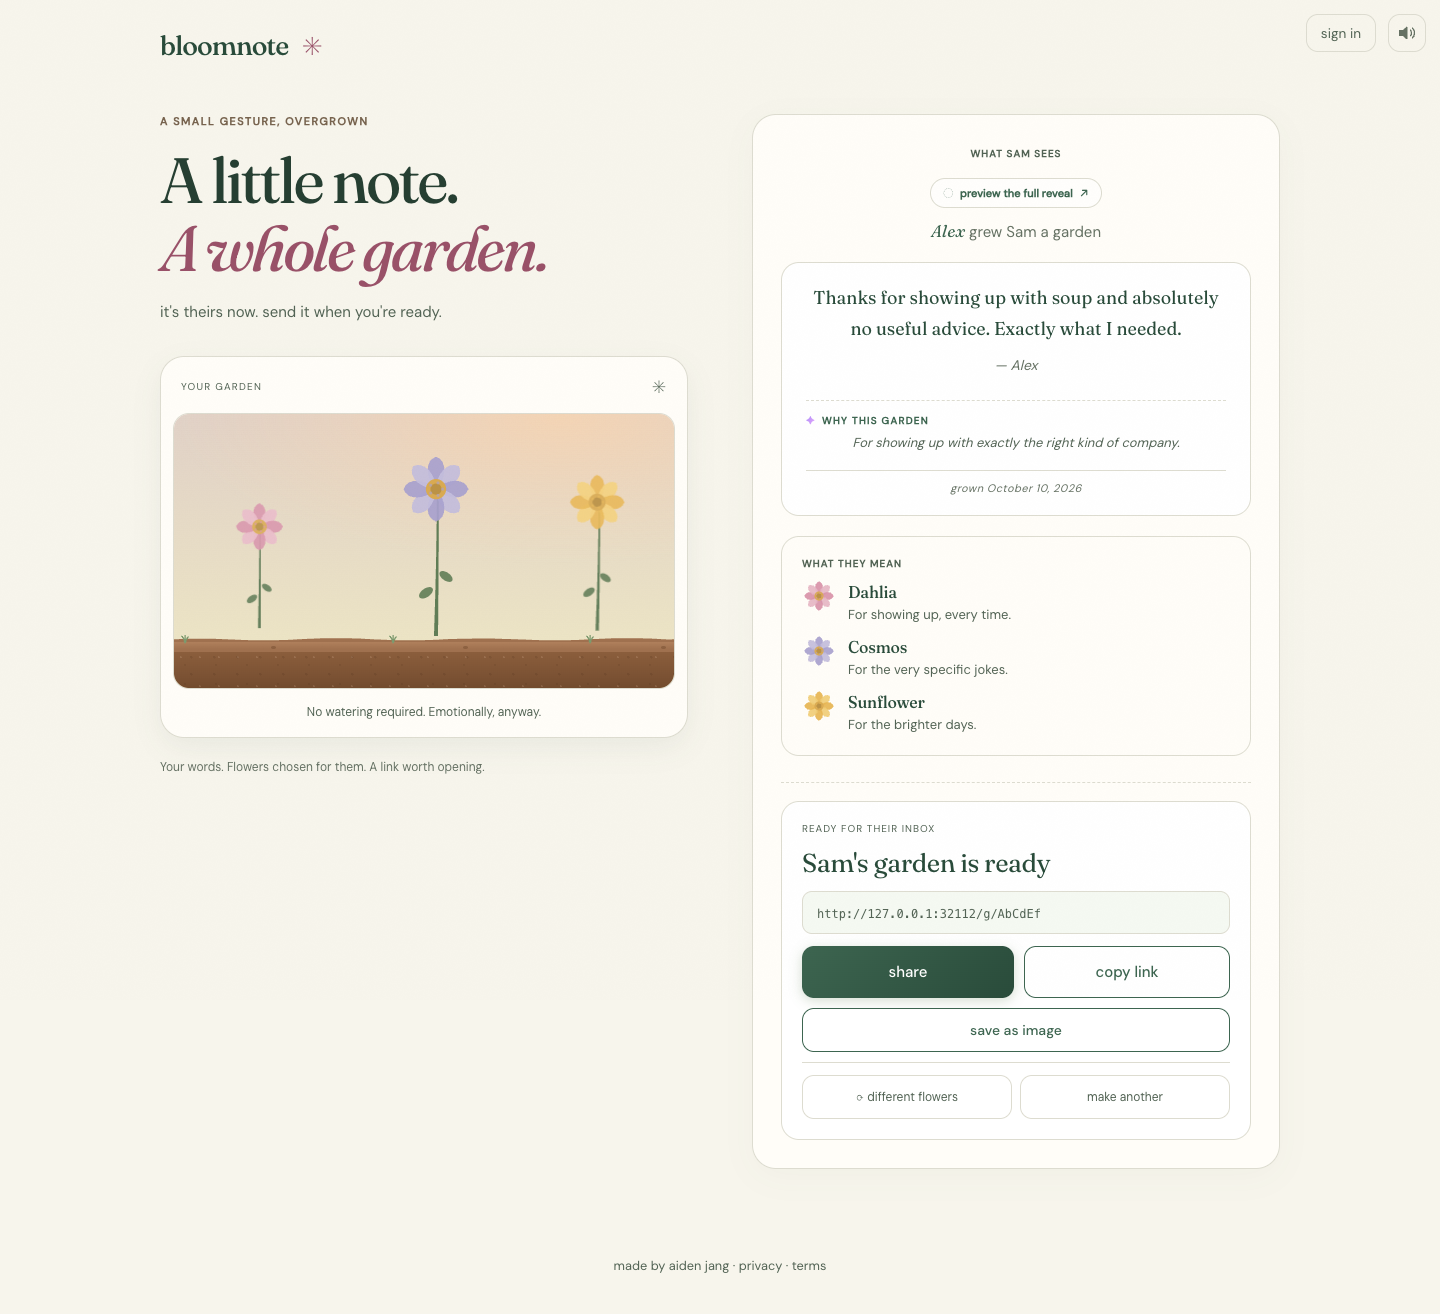
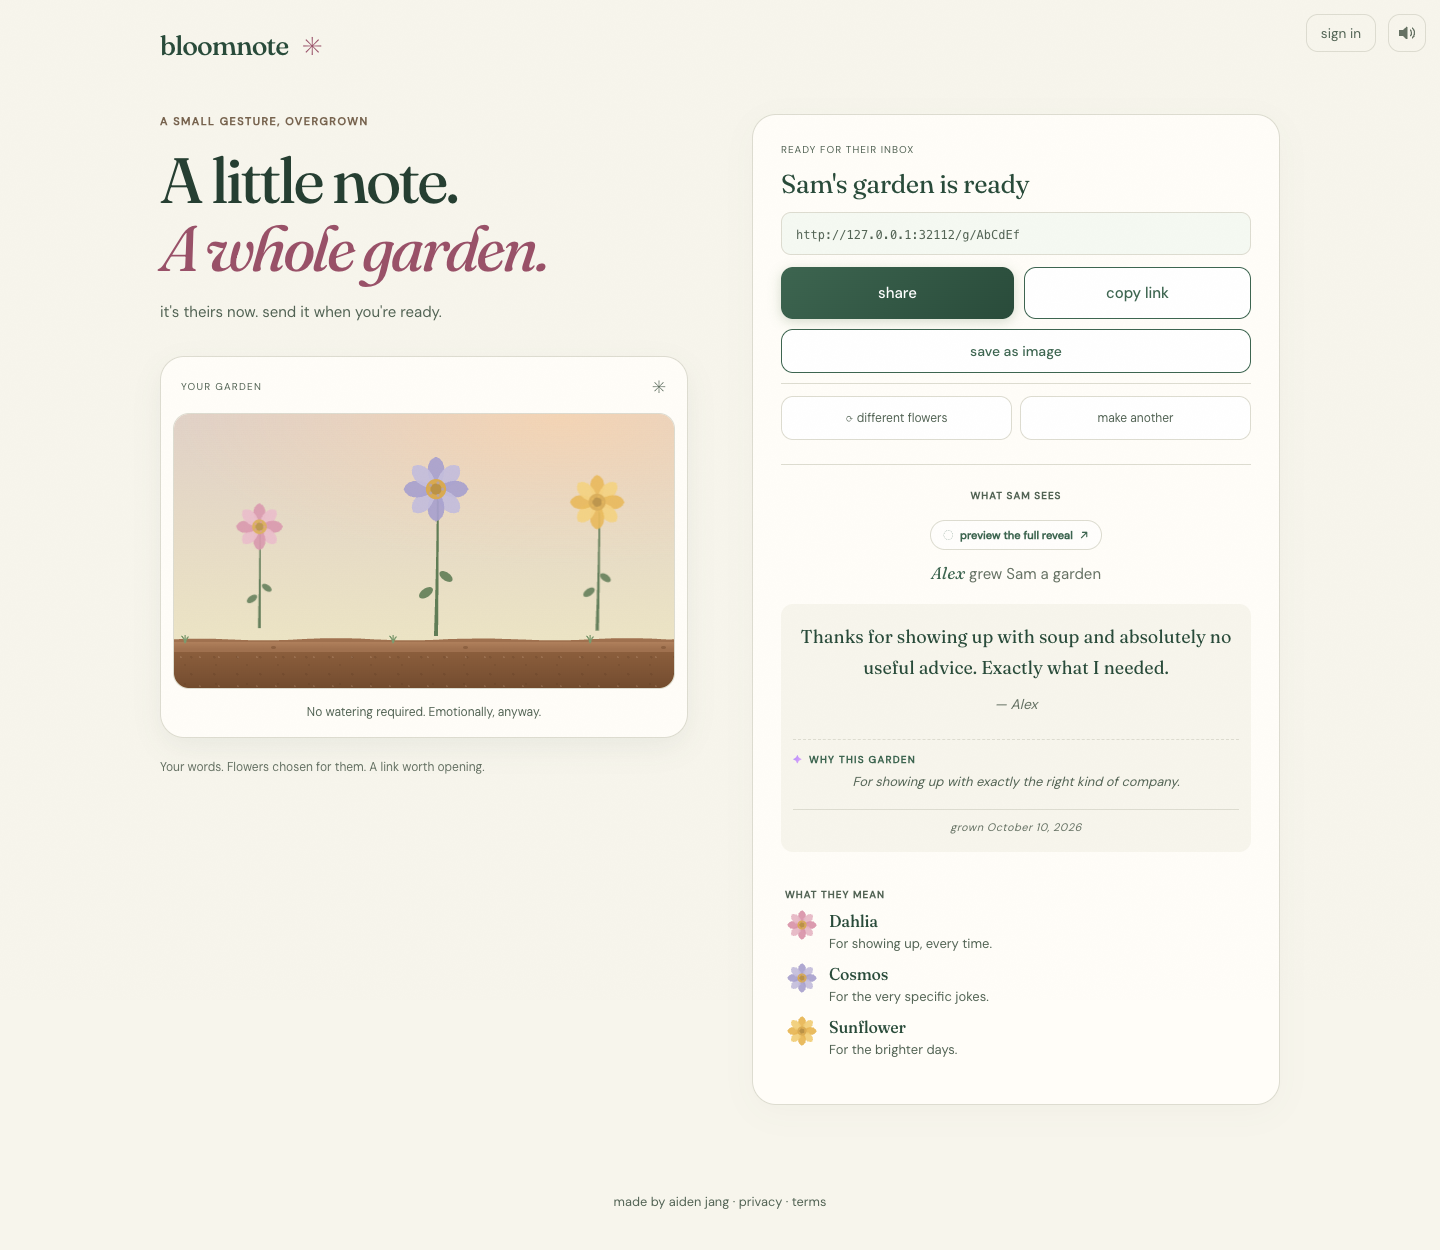
feat: bring Bloomnote sharing forward and flatten preview surfaces

diff --git a/packages/web/src/components/Composer.tsx b/packages/web/src/components/Composer.tsx
@@ -341,6 +341,26 @@ export default function Composer({ remixSeed }: ComposerProps = {}) {
 
       {phase === 'designed' && garden && shareUrl && (
         <>
+          <ShareCard
+            shareUrl={shareUrl}
+            gardenId={gardenId}
+            recipient={recipient}
+            copied={copied}
+            shareStatus={shareStatus}
+            imageStatus={imageStatus}
+            canShare={canShare}
+            isRerolling={isRerolling}
+            errorText={errorText}
+            statusText={statusText}
+            scheduleOpen={scheduleOpen}
+            unlockLocal={unlockLocal}
+            onShare={handleShare}
+            onCopy={handleCopy}
+            onSaveImage={handleSaveImage}
+            onReroll={() => void design.reroll(draft.fields)}
+            onStartOver={handleStartOver}
+          />
+
           <p className={styles.previewLabel}>
             {recipient.trim() ? `what ${recipient.trim()} sees` : 'what they see'}
           </p>
@@ -388,28 +408,6 @@ export default function Composer({ remixSeed }: ComposerProps = {}) {
           )}
 
           <FlowerLegend flowers={garden.flowers} />
-
-          <hr className={styles.shareDivider} aria-hidden />
-
-          <ShareCard
-            shareUrl={shareUrl}
-            gardenId={gardenId}
-            recipient={recipient}
-            copied={copied}
-            shareStatus={shareStatus}
-            imageStatus={imageStatus}
-            canShare={canShare}
-            isRerolling={isRerolling}
-            errorText={errorText}
-            statusText={statusText}
-            scheduleOpen={scheduleOpen}
-            unlockLocal={unlockLocal}
-            onShare={handleShare}
-            onCopy={handleCopy}
-            onSaveImage={handleSaveImage}
-            onReroll={() => void design.reroll(draft.fields)}
-            onStartOver={handleStartOver}
-          />
         </>
       )}
 

diff --git a/packages/web/src/components/FlowerLegend.module.css b/packages/web/src/components/FlowerLegend.module.css
@@ -1,11 +1,11 @@
 .list {
-  background: #fffdf8;
-  border: 1px solid var(--green-pale);
-  border-radius: 18px;
-  padding: 20px;
+  background: transparent;
+  border: 0;
+  border-radius: 0;
+  padding: 16px 4px;
   display: flex;
   flex-direction: column;
-  gap: 12px;
+  gap: 10px;
   animation: fadeUp 0.4s var(--ease-spring) forwards;
 }
 
@@ -23,13 +23,13 @@
   padding: 0;
   display: flex;
   flex-direction: column;
-  gap: 12px;
+  gap: 10px;
 }
 
 .item {
   display: flex;
   align-items: flex-start;
-  gap: 12px;
+  gap: 10px;
   opacity: 0;
   animation: itemReveal 0.5s ease forwards;
   /* animation-delay is applied inline per row from FlowerLegend.tsx, so each row matches the bloom

diff --git a/packages/web/src/components/Composer.module.css b/packages/web/src/components/Composer.module.css
@@ -1161,12 +1161,6 @@
   margin-top: 4px;
 }
 
-.shareDivider {
-  border: none;
-  border-top: 1px dashed var(--green-pale);
-  margin: 6px 0 -2px;
-}
-
 .bouquetNote {
   background: #fbf8f0;
   border: 1px solid #e6dfc6;
@@ -1390,7 +1384,6 @@
   .escape,
   .error,
   .shareCard,
-  .shareDivider,
   .footer {
     display: none !important;
   }
@@ -1592,4 +1585,18 @@
   .shareMore button {
     width: auto;
   }
+}
+
+.shareCard {
+  padding: 0 0 24px;
+  border: 0;
+  border-bottom: 1px solid var(--line);
+  border-radius: 0;
+  background: transparent;
+}
+.previewMessage {
+  padding: 18px 12px;
+  border: 0;
+  border-radius: 12px;
+  background: var(--cream);
 }

diff --git a/docs/ui-qa/README.md b/docs/ui-qa/README.md
@@ -37,3 +37,5 @@ mobile demonstration uses the scene’s geometry scale so flowers remain inside 
 recipient and generated gardens retain their normal scale. The full verification suite passed
 (97 API tests, 245 web tests and 16 browser journeys), followed by final source checks and a
 production build. These changes are committed locally on main; no push or deployment is included.
+
+The October 10 sharing pass places Share and Copy link above the recipient preview in the finished composer. The note and flower meanings use flatter surfaces and tighter spacing. Generated and open-recipient captures were inspected at desktop and phone sizes; checks also cover 320, 430 and 768px.

diff --git a/DESIGN.md b/DESIGN.md
@@ -25,3 +25,5 @@ with recipient names above a quieter action row. Shared wordmarks link back to t
 Growing feedback retains the real status and Cancel action with a short supporting caption.
 Sharing is visually primary; regrowing and starting over sit together below a divider. Empty
 libraries keep one clear creation action and a small sprout.
+
+The finished composer leads with sending and copying before the recipient preview. Preview notes and flower meanings use quieter, flatter surfaces so the garden and sharing controls carry the hierarchy.
